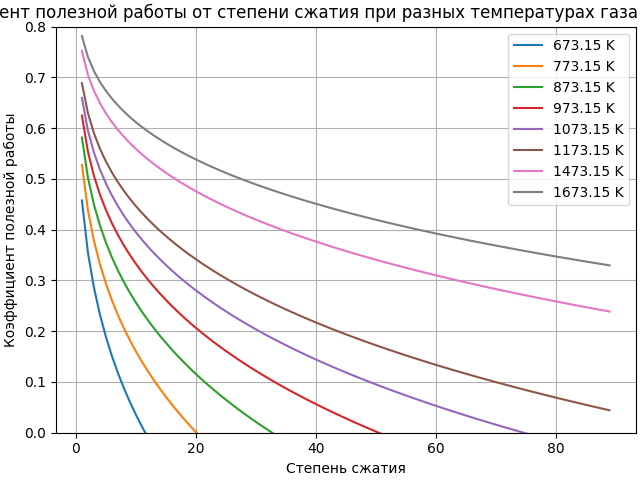
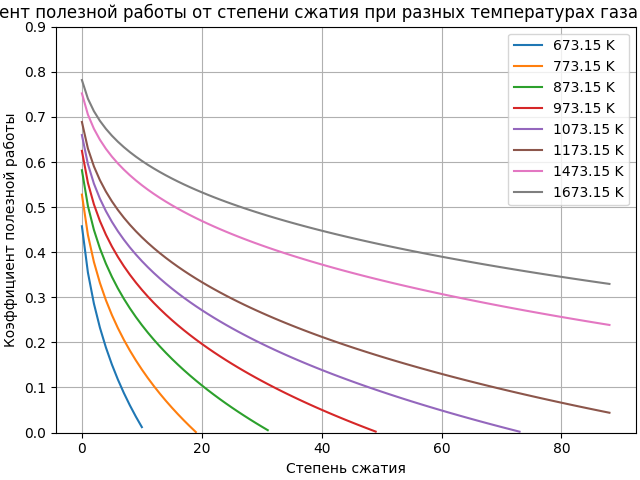
убрал отрицательные корни

diff --git a/Dz8/dz.py b/Dz8/dz.py
@@ -54,14 +54,23 @@ for value in T_c:
         phi[value].append(find_phi(valueps, m, value, T_a))
 
 efficiency = dict({})
-work_coeff = dict({})
 for value in T_c:
     efficiency[value] = []
+    for valueps in eps:
+        a = complite_kpd(valueps, m, value, T_a, turbine_efficiency, compressor_efficiency)
+        if a[0]>=0:
+            efficiency[value].append(a[0])
+        else:
+            break
+work_coeff = dict({})
+for value in T_c:
     work_coeff[value] = []
     for valueps in eps:
         a = complite_kpd(valueps, m, value, T_a, turbine_efficiency, compressor_efficiency)
-        efficiency[value].append(a[0])
-        work_coeff[value].append(a[1])
+        if a[0]>=0:
+            work_coeff[value].append(a[1])
+        else:
+            break
 
 work = dict({})
 for value in T_c:
@@ -80,9 +89,10 @@ H_opt = copliter_work(eps_opt_H, m, T_opimal, T_a, turbine_efficiency, compresso
 
 plt.figure(layout = 'constrained')
 for value in list(work_coeff.keys()):
+    eps = list(range(0,len(work_coeff[value])))
     plt.plot(eps,work_coeff[value], label = f'{value} K')  
 
-plt.ylim([0,0.8])
+plt.ylim([0,0.9])
 plt.xlabel('Степень сжатия')
 plt.ylabel('Коэффициент полезной работы')
 plt.title("Коэффициент полезной работы от степени сжатия при разных температурах газа перед турбиной")
@@ -93,6 +103,7 @@ plt.grid()
 plt.figure(layout = 'constrained')
     
 for value in list(efficiency.keys()):
+    eps = list(range(0,len(efficiency[value])))
     plt.plot(eps,efficiency[value], label = f'{value} K')  
 
 plt.ylim([0,1])
@@ -109,6 +120,7 @@ plt.grid()
 
 plt.figure(layout = 'constrained')
 for value in list(work.keys()):
+    eps = list(range(0,len(work[value])))
     plt.plot(eps,work[value], label = f'{value} K')  
 
 plt.ylim([0,500])
